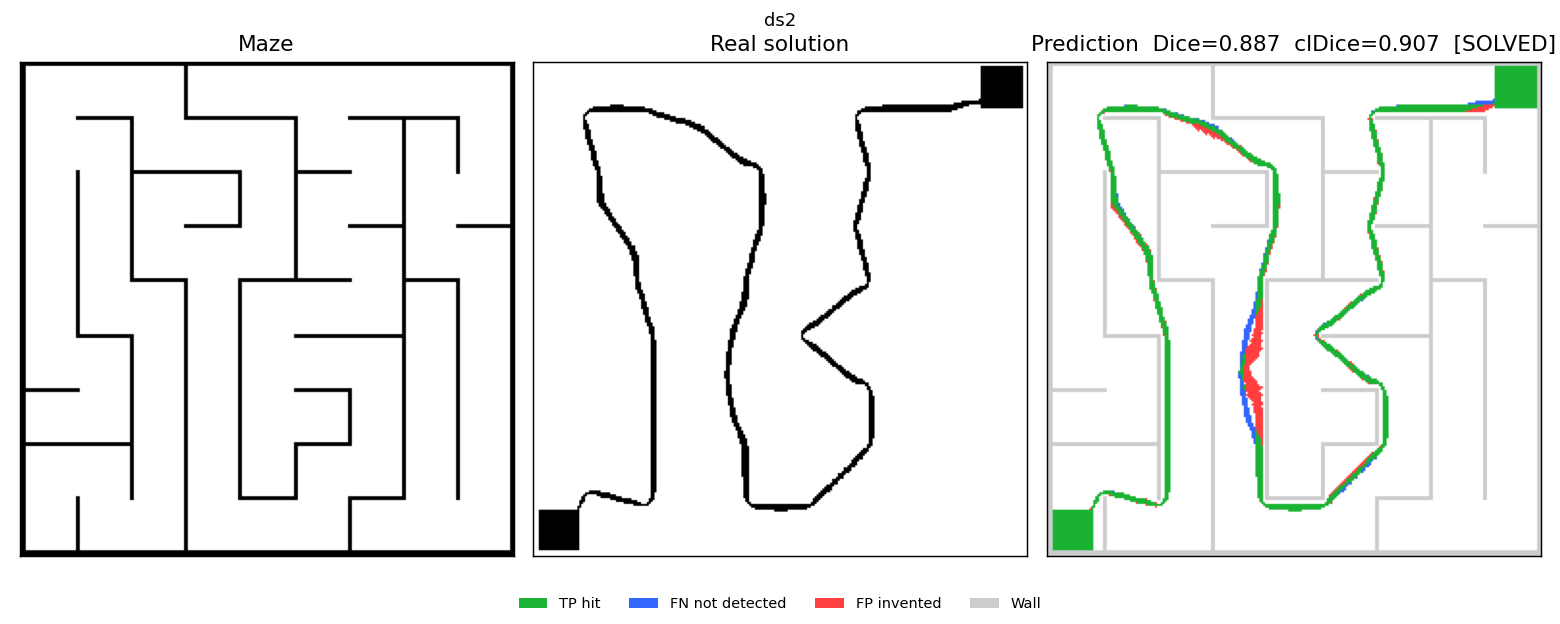
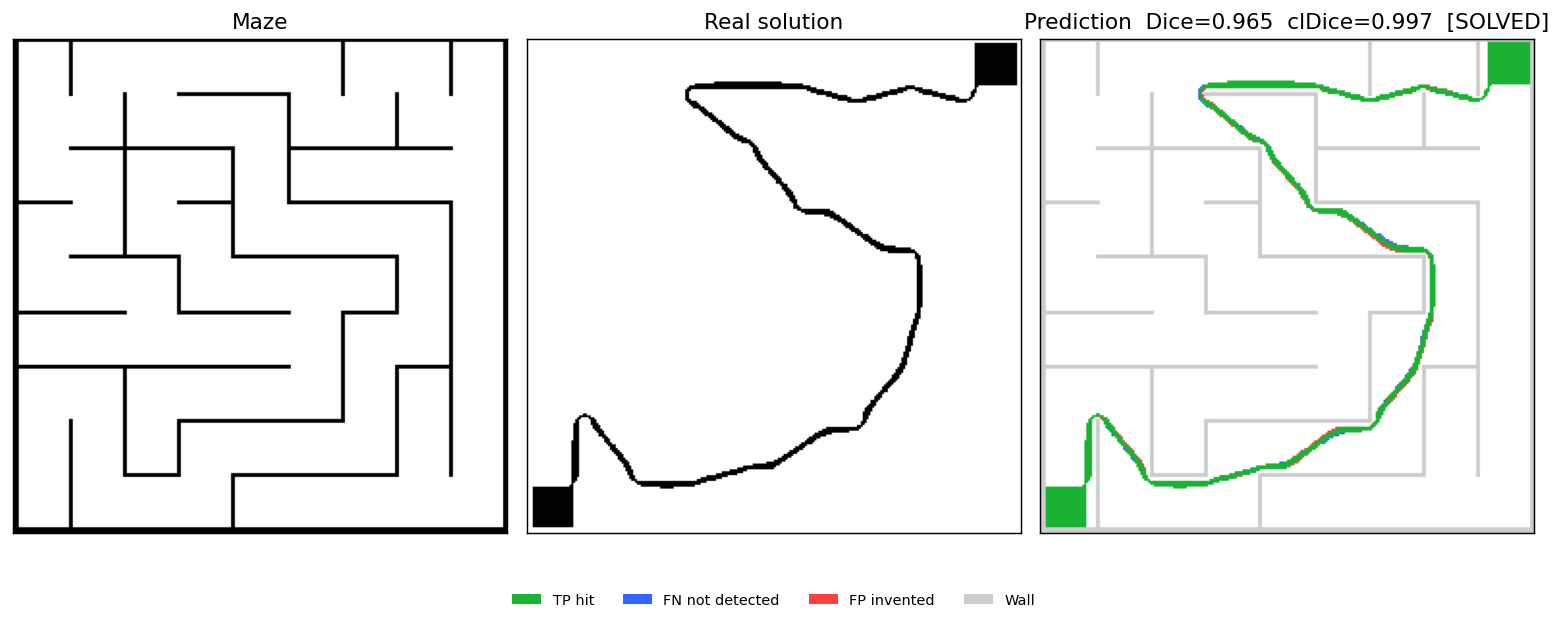
update

diff --git a/README.md b/README.md
@@ -34,7 +34,7 @@ resolution is **256×256**.
 
 *Left to right: an input maze, its reference solution from Part 1, and the U-Net's
 prediction — green = path correctly found, red/blue = small deviations. Here the predicted
-path connects entry to exit (**solved**), with Dice 0.89 / clDice 0.91.*
+path connects entry to exit (**solved**), with Dice 0.97 / clDice 1.00.*
 
 ## Architecture
 
